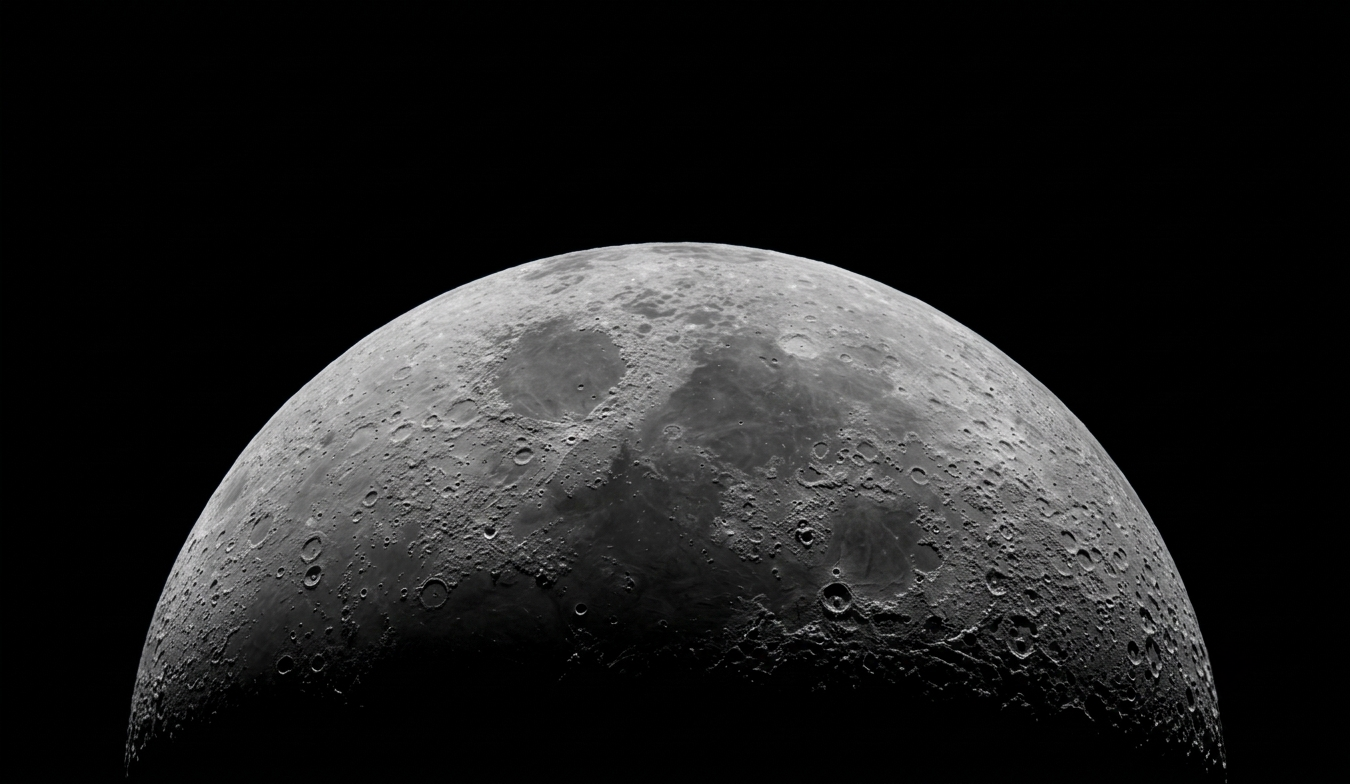
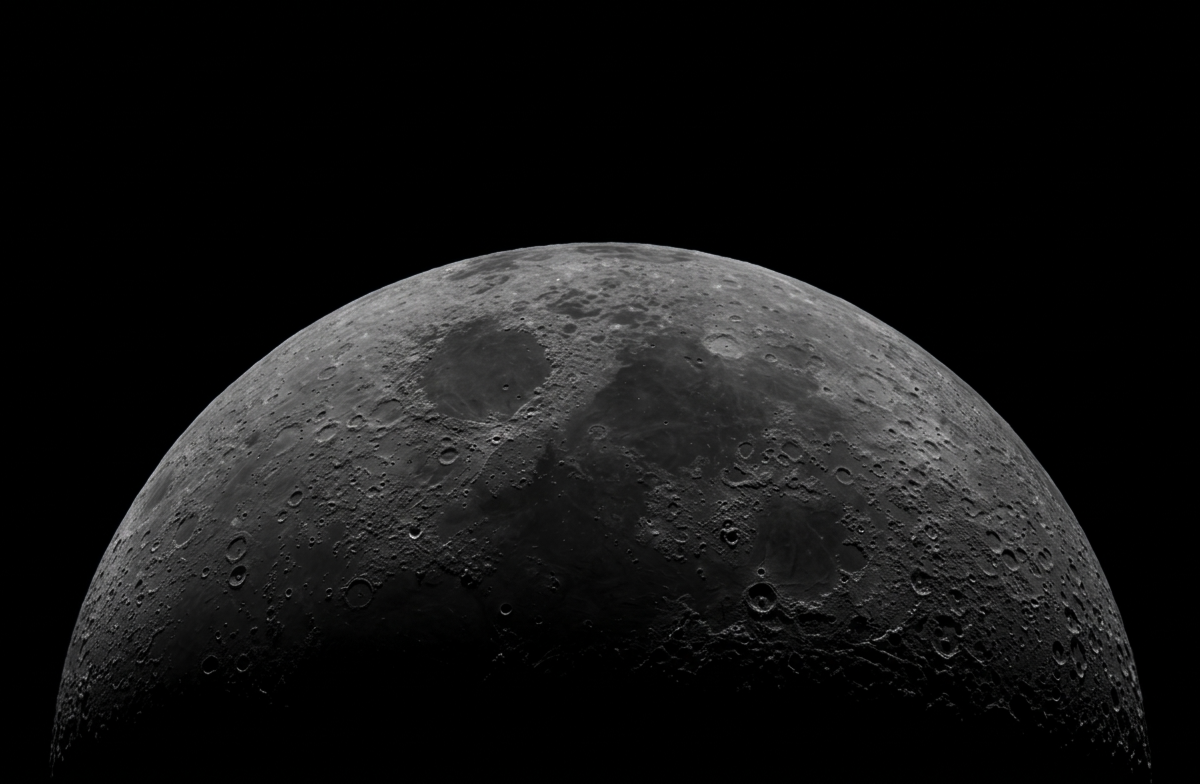
hero section updated

Changed region(s): [[0.0308, 0.3061, 0.9558, 0.9796]]

diff --git a/frontend/src/components/Homepage.jsx b/frontend/src/components/Homepage.jsx
@@ -1,27 +1,30 @@
 import React from 'react';
 import { Link } from 'react-router-dom';
-import Hero from './Hero';
+import Hero from '../assets/hero.png';
 import SpecsSection from './SpecsSection';
 import BriefingSection from './BriefingSection';
 
 export default function CosmosHome() {
   return (
-    <main className="bg-black text-white min-h-screen font-light overflow-hidden">
-      {/* 1. Hero / Header Banner Section */}
-      <Hero />
-
-      {/* Grid Content Wrapper */}
-      <div className="max-w-7xl mx-auto px-6 sm:px-12 lg:px-16 border-t border-white/10">
-        <div className="grid grid-cols-1 lg:grid-cols-2 border-x border-white/10">
-          
-          {/* 2. Engine Specifications Section */}
-          <SpecsSection />
-
-          {/* 3. Mission Briefing Section */}
-          <BriefingSection />
-
-        </div>
+    <div className="bg-black text-white min-h-screen font-light overflow-hidden">
+      <div style={{ backgroundImage: `url(${Hero})` }} className='h-screen min-w-screen flex flex-col justify-center items-center bg-contain bg-no-repeat bg-center gap-6'>
+        <h1 className='font-space-grotesk text-xl lg:text-3xl text-center mb-8 lg:mb-18'>SO, YOU WANT TO TRAVEL TO SPACE?</h1>
+        <h1 className='font-syne text-7xl lg:text-9xl text-center font-semibold'>SPACE</h1>
+        <p className='font-space-grotesk text-sm lg:text-xl w-5/6 lg:w-2/5 text-center'>Let’s face it; if you want to go to space, you might as well genuinely go to outer space and not hover around the edge of it. 
+        Well sit back, relax, and brace yourself. We’ll give you a truly out-of-this world experience!
+        </p>
+        <Link to={'/destinations'}><button className='text-md lg:text-md h-12 w-32 lg:h-16 lg:w-42 mt-12 border border-white/70 text-white/90 font-space-grotesk hover:bg-white hover:text-black transition-colors transition-discrete ease-in-out duration-200'>Explore</button></Link>
       </div>
-    </main>
+      {/* <div className='max-w-screen p-6 sm:p-12 lg:p-28'>
+        <div className='size-full border-r border-b border-white/35 grid grid-cols-1 xl:grid-cols-6'>
+          <div className='font-space-grotesk p-6 col-span-4 flex flex-col gap-6'>
+            <h3 className='mb-12 text-xl text-white/35'><span className='font-space-mono'>01</span> / ENGINE SPECIFICATIONS</h3>
+            <h2 className='font-syne font-semibold text-5xl'>CRUISE IN UNRIVALED LUXURY</h2>
+            <p className='text-lg text-white/70 w-4/5'>Our fleet of Quantum-class starships redefines deep-space transit. Engineered with advanced artificial gravity matrices and radiation shielding, you won't just endure the cosmos—you will conquer it in absolute comfort.</p>
+          </div>
+        </div>
+        <div><Link><img src="" alt="" /></Link></div>
+      </div> */}
+    </div>
   );
 }
